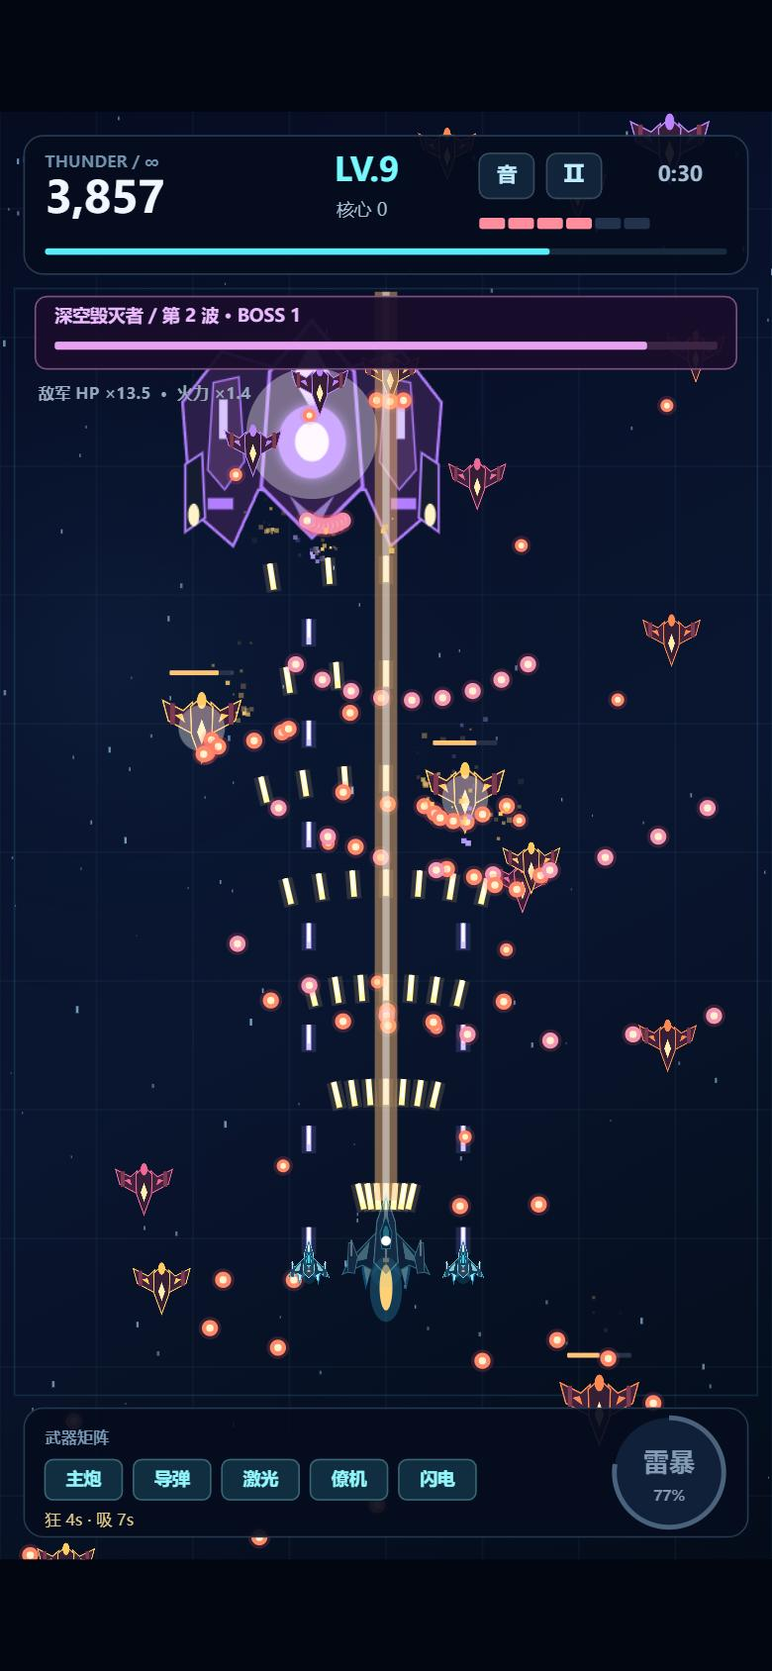
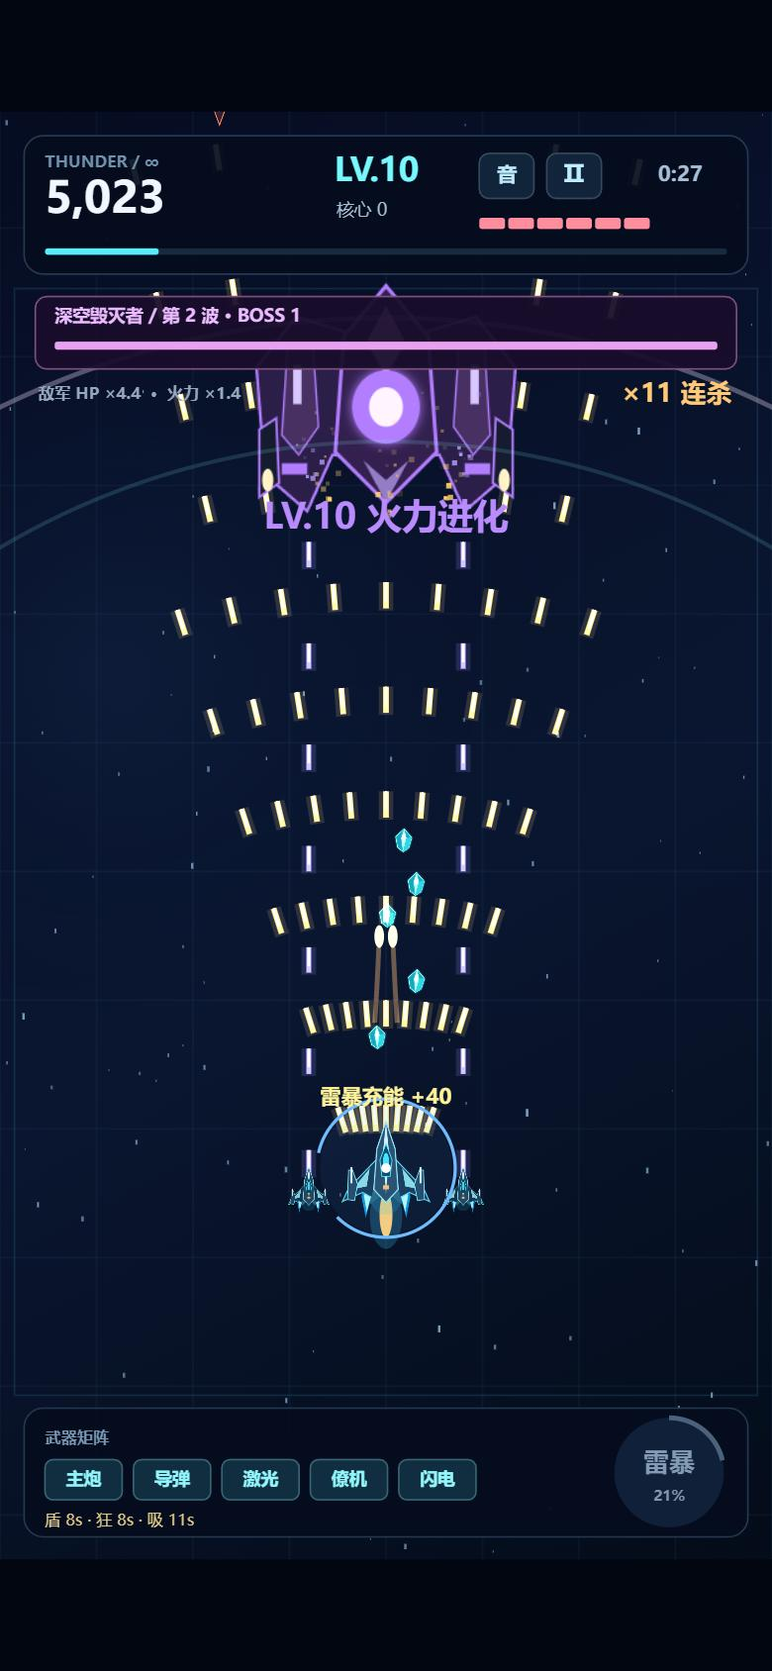
发布 2026/11/9 18:31:32

diff --git a/.studio/playtest/run-2026-11-09T10-23-20-335Z/game.html b/.studio/playtest/run-2026-11-09T10-23-20-335Z/game.html
@@ -4,12 +4,12 @@
 <meta http-equiv="Content-Security-Policy" content="default-src 'none'; img-src data: blob:; media-src data: blob:; font-src data:; style-src 'unsafe-inline'; script-src 'unsafe-inline'; connect-src 'none'; form-action 'none'">
 <title>雷霆战机：无限超载</title>
 <style>html,body{margin:0;height:100%;overflow:hidden;background:#000}canvas{display:block;width:100vw;height:100vh;touch-action:none;outline:none}</style></head><body><canvas id="game" tabindex="0"></canvas>
[2 lines of base64/hex data omitted]
 <script>/* 雷霆战机：无限超载 — Game Studio / standalone Canvas 2D. */
 (function () {
   'use strict';
   const G = window.GAME || {}, slots = G.slots || {}, assets = G.assets || {};
-  const defaults = { hearts:6, heroSpeed:420, bossEvery:30, bossHealth:1500, enemySpawnEvery:.62, enemyHealth:22, maxEnemies:48, maxPlayerBullets:360, maxEnemyBullets:480, maxParticles:600, maxPickups:90, startingLevel:1, skillCharge:100, enemyDamage:1, hitInvulnerability:1.6 };
+  const defaults = { hearts:6, heroSpeed:420, bossEvery:25, bossHealth:12000, enemySpawnEvery:.42, enemyHealth:60, maxEnemies:48, maxPlayerBullets:360, maxEnemyBullets:480, maxParticles:600, maxPickups:90, startingLevel:1, skillCharge:100, enemyDamage:1, hitInvulnerability:1.6, waveEvery:20, waveHealthGrowth:6, waveHealthCurve:3, waveHealthPower:1.35, waveBossHealthGrowth:.9, waveBossHealthCurve:.2, waveBossHealthPower:1.15, waveMoveGrowth:.2, waveBulletGrowth:.22, waveFireGrowth:.35, waveSpawnGrowth:.45, waveEliteGrowth:.045, waveDamageEvery:2 };
   const R = Object.assign({}, defaults, G.rules || {});
   Object.keys(defaults).forEach(k => { R[k] = Number.isFinite(+R[k]) ? +R[k] : defaults[k]; });
   const clamp = (x,a,b) => Math.max(a,Math.min(b,x)), rnd = (a,b) => a+Math.random()*(b-a), TAU=Math.PI*2;
@@ -18,6 +18,12 @@
   R.maxEnemies=clamp(R.maxEnemies,1,80); R.maxPlayerBullets=clamp(R.maxPlayerBullets,10,500);
   R.maxEnemyBullets=clamp(R.maxEnemyBullets,10,700); R.maxParticles=clamp(R.maxParticles,0,900);
   R.maxPickups=clamp(R.maxPickups,1,150); R.hearts=clamp(R.hearts,1,30);
+  R.waveEvery=Math.max(1,R.waveEvery);R.waveDamageEvery=Math.max(1,Math.floor(R.waveDamageEvery));
+  ['waveHealthGrowth','waveHealthCurve','waveBossHealthGrowth','waveBossHealthCurve','waveMoveGrowth','waveBulletGrowth','waveFireGrowth','waveSpawnGrowth','waveEliteGrowth'].forEach(k=>R[k]=clamp(R[k],0,10));
+  R.waveHealthPower=clamp(R.waveHealthPower,1,2);R.waveBossHealthPower=clamp(R.waveBossHealthPower,1,2);
+  // Fixed wave progression: not rubber-banded to player level. Snapshot on spawn.
+  // Bound only the exponent for finite arithmetic; polynomial HP keeps growing.
+  function waveStats(w){const n=Math.max(0,w-1),exponent=Math.min(n,200);return{health:(1+R.waveHealthGrowth*n+R.waveHealthCurve*n*n)*Math.pow(R.waveHealthPower,exponent),bossHealth:(1+R.waveBossHealthGrowth*n+R.waveBossHealthCurve*n*n)*Math.pow(R.waveBossHealthPower,exponent),move:Math.min(2.2,1+R.waveMoveGrowth*n),bullet:Math.min(2.25,1+R.waveBulletGrowth*n),fire:Math.min(2.5,1+R.waveFireGrowth*n),spawnEvery:Math.max(.14,R.enemySpawnEvery/(1+R.waveSpawnGrowth*n)),eliteChance:Math.min(.32,.08+R.waveEliteGrowth*n),damage:R.enemyDamage*Math.min(4,1+Math.floor(n/R.waveDamageEvery))};}
   let canvas=document.getElementById('game');
   if (!canvas) { canvas=document.createElement('canvas'); canvas.id='game'; document.body.appendChild(canvas); }
   Object.assign(canvas.style,{display:'block',touchAction:'none',outline:'none',background:'#030916'});
@@ -35,7 +41,7 @@
   function unlockAudio(){ try { if(!audio){const AC=window.AudioContext||window.webkitAudioContext;if(AC)audio=new AC();} if(audio&&audio.state==='suspended')audio.resume().catch(()=>{}); }catch(_){} }
   function sound(f,d=.09,type='sine',v=.04,end=f){if(!audio||muted)return;try{const t=audio.currentTime,o=audio.createOscillator(),g=audio.createGain();o.type=type;o.frequency.setValueAtTime(f,t);o.frequency.exponentialRampToValueAtTime(Math.max(30,end),t+d);g.gain.setValueAtTime(.0001,t);g.gain.exponentialRampToValueAtTime(v,t+.008);g.gain.exponentialRampToValueAtTime(.0001,t+d);o.connect(g);g.connect(audio.destination);o.start(t);o.stop(t+d+.015);}catch(_){} }
 
-  let phase='title',paused=false,elapsed=0,score=0,level=1,xp=0,xpNeed=12,hearts=6,maxHearts=6,charge=100;
+  let phase='title',paused=false,elapsed=0,score=0,level=1,xp=0,xpNeed=12,hearts=6,maxHearts=6,charge=100,wave=1,waveNotice=0;
   let hero={x:W/2,y:H*.78},enemies=[],shots=[],hostile=[],drops=[],particles=[],rings=[],labels=[],beams=[],arcs=[];
   let boss=null,bossCount=0,bossKills=0,nextBoss=30,spawnClock=0,shotClock=0,missileClock=0,laserClock=0,chainClock=0;
   let invuln=0,shield=0,rage=0,magnet=0,shake=0,flash=0,combo=0,comboTime=0,kills=0,earned=0,core=0,saveClock=0,guard=0;
@@ -101,10 +107,10 @@
   function emit(){try{window.parent.postMessage({source:'dsh-game-studio',type:'state',phase,score},'*');}catch(_){}}
   function burst(x,y,color,count=22,force=160){for(let i=0;i<count&&particles.length<R.maxParticles;i++){const a=rnd(0,TAU),v=rnd(force*.2,force);particles.push({x,y,vx:Math.cos(a)*v,vy:Math.sin(a)*v,life:rnd(.2,.65),max:.65,color,size:rnd(1,3.5)});}}
   function ring(x,y,color,max=90,life=.4){if(rings.length<35)rings.push({x,y,color,max,life,total:life});}
-  function label(text,x,y,color='#c6faff',big=false){if(labels.length<25)labels.push({text,x,y,color,life:big?1.6:.9,big});}
+  function label(text,x,y,color='#c6faff',big=false){if(big)labels=labels.filter(l=>!l.big);else{const nearby=labels.filter(l=>!l.big&&Math.abs(l.x-x)<70&&Math.abs(l.y-y)<60).length;y-=Math.min(nearby,3)*20;}if(labels.length<25)labels.push({text,x,y,color,life:big?1.6:.9,big});}
   function announce(t,color='#65faff'){banner=t;bannerTime=2.3;label(t,W/2,260,color,true);}
   function start(){
-    phase='playing';paused=false;elapsed=0;score=0;level=Math.max(1,Math.floor(R.startingLevel));xp=0;xpNeed=12+level*2;
+    phase='playing';paused=false;elapsed=0;wave=1;waveNotice=0;score=0;level=Math.max(1,Math.floor(R.startingLevel));xp=0;xpNeed=12+level*2;
     core=Math.floor(Math.sqrt(profile.bank/25));maxHearts=Math.min(12,R.hearts+Math.floor(core/3));hearts=maxHearts;charge=clamp(R.skillCharge,0,100);
     hero={x:W/2,y:H*.78};enemies=[];shots=[];hostile=[];drops=[];particles=[];rings=[];labels=[];beams=[];arcs=[];
     boss=null;bossCount=0;bossKills=0;nextBoss=R.bossEvery;spawnClock=.1;shotClock=0;missileClock=0;laserClock=0;chainClock=0;
@@ -132,23 +138,24 @@
     if(e.boss){bossKills++;boss=null;nextBoss=elapsed+R.bossEvery;shake=12;flash=.3;announce('BOSS 击破 · 奖励爆发','#ffd783');upgrade(40+bossCount*10);for(let i=0;i<12;i++)makeDrop(e.x+rnd(-100,100),e.y+rnd(-20,40),'xp',6);['heal','shield','rage','magnet','energy'].forEach((t,i)=>makeDrop(100+i*70,e.y+35,t));hostile.length=0;save();sound(100,.5,'sawtooth',.1,35);}
     else{upgrade(e.elite?3:1);makeDrop(e.x,e.y,'xp',e.elite?10:3);if(kills%9===0){const types=['rage','shield','energy','heal','magnet'];makeDrop(e.x+15,e.y,types[Math.floor(kills/9)%5]);}if(combo===10||combo%25===0)label(combo+' 连杀',W/2,190,'#ffd77a',true);if(elapsed-lastSound>.08){sound(160,.08,'triangle',.022,50);lastSound=elapsed;}}
   }
-  function hurt(){if(invuln>0||phase!=='playing')return;if(shield>0){shield=Math.max(0,shield-1.8);invuln=.3;ring(hero.x,hero.y,'#7dcfff',85,.35);return;}hearts=Math.max(0,hearts-R.enemyDamage);invuln=Math.max(.1,R.hitInvulnerability);shake=8;flash=.15;combo=0;burst(hero.x,hero.y,'#ff7e81',18);sound(190,.18,'sawtooth',.065,45);if(hearts<=0){phase='lost';guard=1;save();burst(hero.x,hero.y,'#62e7ff',80,260);emit();}}
+  function hurt(amount=R.enemyDamage){if(invuln>0||phase!=='playing'||amount<=0)return;if(shield>0){shield=Math.max(0,shield-1.8*amount);invuln=.3;ring(hero.x,hero.y,'#7dcfff',85,.35);return;}hearts=Math.max(0,hearts-amount);invuln=Math.max(.1,R.hitInvulnerability);shake=8;flash=.15;combo=0;burst(hero.x,hero.y,'#ff7e81',18);sound(190,.18,'sawtooth',.065,45);if(hearts<=0){phase='lost';guard=1;save();burst(hero.x,hero.y,'#62e7ff',80,260);emit();}}
   function hit(e,amount){if(e.dead||(e.boss&&e.y<185))return;e.hp-=amount;e.hit=.075;if(e.hp<=0)kill(e);}
   function thunder(){if(phase!=='playing'||paused||charge<100)return false;charge=0;skillUses++;invuln=Math.max(invuln,1);flash=.65;shake=14;hostile.length=0;ring(hero.x,hero.y,'#f9eaff',800,1);ring(hero.x,hero.y,'#89ffff',550,.8);for(const e of enemies.slice())if(!e.dead){arcs.push({x1:hero.x,y1:hero.y,x2:e.x,y2:e.y,life:.6,color:'#dbfaff'});hit(e,damage()*22);}announce('雷暴领域 · 全屏湮灭','#f5edff');sound(75,.55,'sawtooth',.12,35);return true;}
   function spawnEnemy(){
-    const tier=Math.floor(elapsed/20),type=Math.floor(rnd(0,4)),elite=kills>12&&Math.random()<.1;const x=rnd(35,W-35),speed=70+type*17+Math.min(140,tier*5);
-    const hp=R.enemyHealth*(1+tier*.23)*(elite?4:1)*(type===3?1.5:1);
-    enemies.push({x,y:-45,baseX:x,type,elite,hp,maxHp:hp,r:elite?24:17,size:elite?66:48,speed,age:0,fire:rnd(.8,2.5),hit:0,dead:false,boss:false});
+    const stats=waveStats(wave),type=Math.floor(rnd(0,4)),elite=kills>12&&Math.random()<stats.eliteChance,x=rnd(35,W-35);
+    const speed=(70+type*17)*stats.move,hp=R.enemyHealth*stats.health*(elite?4:1)*(type===3?1.5:1);
+    enemies.push({x,y:-45,baseX:x,type,elite,hp,maxHp:hp,r:elite?24:17,size:elite?66:48,speed,age:0,fire:rnd(.35,.8)/stats.fire,hit:0,dead:false,boss:false,spawnWave:wave,fireRate:stats.fire,bulletScale:stats.bullet,damage:stats.damage,eliteChance:stats.eliteChance});
   }
   const bossNames=['深空毁灭者','赤焰审判者','黄金歼星舰'];
-  function spawnBoss(){bossCount++;const hp=R.bossHealth*(1+(bossCount-1)*.75);boss={x:W/2,y:-120,hp,maxHp:hp,r:68,size:200,type:(bossCount-1)%3,age:0,fire:1.6,hit:0,dead:false,boss:true,speed:0};enemies.push(boss);announce('警报 / '+bossNames[boss.type],'#e4a2ff');sound(260,.4,'sawtooth',.055,110);}
-  function enemyBullet(x,y,a,s=130,r=5,color='#ff8a6a'){if(hostile.length<R.maxEnemyBullets)hostile.push({x,y,vx:Math.cos(a)*s,vy:Math.sin(a)*s,r,color,life:12});}
+  function spawnBoss(){bossCount++;const stats=waveStats(wave),hp=R.bossHealth*(1+(bossCount-1)*.25)*stats.bossHealth;boss={x:W/2,y:-120,hp,maxHp:hp,r:68,size:200,type:(bossCount-1)%3,age:0,fire:1.6,hit:0,dead:false,boss:true,speed:0,spawnWave:wave,fireRate:stats.fire,bulletScale:stats.bullet,damage:stats.damage};enemies.push(boss);announce('警报 / '+bossNames[boss.type],'#e4a2ff');sound(260,.4,'sawtooth',.055,110);}
+  function enemyBullet(x,y,a,s=130,r=5,color='#ff8a6a',source=null){if(hostile.length<R.maxEnemyBullets){const speed=s*(source?source.bulletScale:1);hostile.push({x,y,vx:Math.cos(a)*speed,vy:Math.sin(a)*speed,r,color,life:12,damage:source?source.damage:R.enemyDamage,spawnWave:source?source.spawnWave:wave});}}
   function bossFire(e){
-    const stage=1+(e.hp<e.maxHp*.65?1:0)+(e.hp<e.maxHp*.3?1:0),speed=105+bossCount*7+stage*12;
-    if(e.type===0){const n=7+stage*2;for(let i=0;i<n;i++)enemyBullet(e.x,e.y+38,Math.PI/2+(i-(n-1)/2)*.15,speed,5,'#f596b6');if(stage>1){for(const s of [-1,1]){const a=Math.atan2(hero.y-e.y,hero.x-(e.x+s*65));enemyBullet(e.x+s*65,e.y+25,a,speed+45,7,'#ffdc8a');}}}
-    if(e.type===1){const angle=e.age*.72;for(let i=0;i<12+stage*3;i++)enemyBullet(e.x,e.y+25,angle+i*TAU/(12+stage*3),speed*.9,5,'#ffa15b');}
-    if(e.type===2){for(const s of [-1,1]){const x=e.x+s*60,a=Math.atan2(hero.y-e.y,hero.x-x);for(let i=-stage;i<=stage;i++)enemyBullet(x,e.y+35,a+i*.12,speed+20,6,'#ffcf70');}for(let i=0;i<5;i++)enemyBullet(e.x,e.y+40,Math.PI/2+(i-2)*.34,speed*.7,4,'#de9bff');}
-    e.fire=Math.max(.32,1.1-stage*.12-bossCount*.016);
+    const stage=1+(e.hp<e.maxHp*.65?1:0)+(e.hp<e.maxHp*.3?1:0),speed=105+Math.min(40,bossCount*4)+stage*12;
+    if(e.type===0){const n=7+stage*2;for(let i=0;i<n;i++)enemyBullet(e.x,e.y+38,Math.PI/2+(i-(n-1)/2)*.15,speed,5,'#f596b6',e);if(stage>1){for(const s of [-1,1]){const a=Math.atan2(hero.y-e.y,hero.x-(e.x+s*65));enemyBullet(e.x+s*65,e.y+25,a,speed+45,7,'#ffdc8a',e);}}}
+    if(e.type===1){const angle=e.age*.72;for(let i=0;i<12+stage*3;i++)enemyBullet(e.x,e.y+25,angle+i*TAU/(12+stage*3),speed*.9,5,'#ffa15b',e);}
+    if(e.type===2){for(const s of [-1,1]){const x=e.x+s*60,a=Math.atan2(hero.y-e.y,hero.x-x);for(let i=-stage;i<=stage;i++)enemyBullet(x,e.y+35,a+i*.12,speed+20,6,'#ffcf70',e);}for(let i=0;i<5;i++)enemyBullet(e.x,e.y+40,Math.PI/2+(i-2)*.34,speed*.7,4,'#de9bff',e);}
+    if(e.spawnWave>=5){for(const side of [-1,1]){const x=e.x+side*65,a=Math.atan2(hero.y-e.y,hero.x-x);enemyBullet(x,e.y+35,a,speed+25,5,'#ff718b',e);}}
+    e.fire=Math.max(.25,(1.1-stage*.12-Math.min(.14,bossCount*.01))/e.fireRate);
   }
   function addShot(x,y,vx,vy,dmg,kind='normal',color='#72fbff'){if(shots.length<R.maxPlayerBullets)shots.push({x,y,vx,vy,dmg,kind,color,life:3,trail:[]});}
   function fire(){
@@ -166,7 +173,8 @@
   function update(dt){
     guard=Math.max(0,guard-dt);
     if(phase!=='playing'||paused){updateFX(dt);return;}
-    elapsed+=dt;saveClock+=dt;if(saveClock>5){save();saveClock=0;}bannerTime=Math.max(0,bannerTime-dt);
+    elapsed+=dt;saveClock+=dt;if(saveClock>5){save();saveClock=0;}bannerTime=Math.max(0,bannerTime-dt);waveNotice=Math.max(0,waveNotice-dt);
+    const nextWave=1+Math.floor((elapsed+1e-8)/R.waveEvery);if(nextWave>wave){wave=nextWave;waveNotice=3.5;sound(230,.18,'triangle',.045,460);}
     invuln=Math.max(0,invuln-dt);shield=Math.max(0,shield-dt);rage=Math.max(0,rage-dt);magnet=Math.max(0,magnet-dt);comboTime-=dt;if(comboTime<=0)combo=0;
     charge=Math.min(100,charge+dt*2.1);autoTTL-=dt;
     let dx=(keys.arrowright||keys.d?1:0)-(keys.arrowleft||keys.a?1:0),dy=(keys.arrowdown||keys.s?1:0)-(keys.arrowup||keys.w?1:0);
@@ -175,13 +183,13 @@
     else if(dx||dy){const len=Math.hypot(dx,dy);hero.x+=dx/len*R.heroSpeed*dt;hero.y+=dy/len*R.heroSpeed*dt;}
     hero.x=clamp(hero.x,25,W-25);hero.y=clamp(hero.y,125,H-105);
     shotClock-=dt;missileClock-=dt;laserClock-=dt;chainClock-=dt;if(shotClock<=0)fire();if(level>=3&&missileClock<=0)missile();if(level>=5&&laserClock<=0)laser();if(level>=9&&chainClock<=0)chain();
-    spawnClock-=dt;if(spawnClock<=0){spawnClock=Math.max(.18,R.enemySpawnEvery/(1+elapsed/100));if(enemies.filter(e=>!e.dead).length<R.maxEnemies)spawnEnemy();}
+    spawnClock-=dt;if(spawnClock<=0){spawnClock=waveStats(wave).spawnEvery;if(enemies.filter(e=>!e.dead).length<R.maxEnemies-(boss?0:1))spawnEnemy();}
     if(!boss&&elapsed>=nextBoss)spawnBoss();
     for(const e of enemies){if(e.dead)continue;e.age+=dt;e.hit=Math.max(0,e.hit-dt);e.fire-=dt;
       if(e.boss){e.y=Math.min(200,e.y+100*dt);if(e.y>=195){e.x=W/2+Math.sin(e.age*.65)*(e.type===2?90:115);if(e.fire<=0)bossFire(e);}}
       else{e.y+=e.speed*dt;if(e.type===1)e.x=clamp(e.baseX+Math.sin(e.age*2)*60,25,W-25);if(e.type===2)e.x+=clamp(hero.x-e.x,-70,70)*dt*.55;
-        if(e.fire<=0&&e.y>115&&e.y<hero.y-60){const a=Math.atan2(hero.y-e.y,hero.x-e.x);if(e.type===3||e.elite){for(let j=-1;j<=1;j++)enemyBullet(e.x,e.y+14,a+j*.17,115+Math.min(120,elapsed*.4));}else enemyBullet(e.x,e.y+12,a,105+Math.min(100,elapsed*.3),4);e.fire=e.elite?1.2:2.5;}}
-      if(Math.hypot(e.x-hero.x,e.y-hero.y)<e.r+10){hurt();if(!e.boss)hit(e,damage()*8);}
+        if(e.fire<=0&&e.y>115&&e.y<hero.y-60){const a=Math.atan2(hero.y-e.y,hero.x-e.x);if(e.type===3||e.elite){const spread=Math.min(3,1+Math.floor((e.spawnWave-1)/5));for(let j=-spread;j<=spread;j++)enemyBullet(e.x,e.y+14,a+j*.17,115,5,'#ff8a6a',e);}else enemyBullet(e.x,e.y+12,a,105,4,'#ff8a6a',e);e.fire=(e.elite?1.2:2.5)/e.fireRate;}}
+      if(Math.hypot(e.x-hero.x,e.y-hero.y)<e.r+10){hurt(e.damage);if(!e.boss)hit(e,damage()*8);}
       if(e.y>H+70)e.dead=true;
     }
     if(phase!=='playing'){updateFX(dt);return;}
@@ -191,7 +199,7 @@
       s.x+=s.vx*dt;s.y+=s.vy*dt;
       for(const e of live){if(e.dead||s.life<=0)continue;if(Math.abs(e.x-s.x)<e.r+5&&Math.abs(e.y-s.y)<e.r+8&&Math.hypot(e.x-s.x,e.y-s.y)<e.r+7){hit(e,s.dmg);s.life=0;burst(s.x,s.y,s.color,3,65);if(s.kind==='missile'){ring(s.x,s.y,'#ffc477',45,.22);for(const n of live)if(n!==e&&!n.dead&&Math.hypot(n.x-s.x,n.y-s.y)<70)hit(n,s.dmg*.5);}break;}}
     }
-    for(const b of hostile){b.x+=b.vx*dt;b.y+=b.vy*dt;b.life-=dt;if(Math.hypot(b.x-hero.x,b.y-hero.y)<b.r+7){b.life=0;hurt();}}
+    for(const b of hostile){b.x+=b.vx*dt;b.y+=b.vy*dt;b.life-=dt;if(Math.hypot(b.x-hero.x,b.y-hero.y)<b.r+7){b.life=0;hurt(b.damage);}}
     if(phase!=='playing'){updateFX(dt);return;}
     for(const p of drops){p.age+=dt;p.y+=35*dt;const dist=Math.hypot(p.x-hero.x,p.y-hero.y),attract=p.type==='xp'?180:125;if(magnet>0||dist<attract||p.age>8){const speed=magnet>0?680:410;const step=Math.min(dist,speed*dt);if(dist>.01){p.x+=(hero.x-p.x)/dist*step;p.y+=(hero.y-p.y)/dist*step;}}if(dist<22){p.dead=true;if(p.type==='xp'){upgrade(p.value);score+=p.value*2;}else applyDrop(p.type);}}
     enemies=enemies.filter(e=>!e.dead);shots=shots.filter(s=>s.life>0&&s.x>-70&&s.x<W+70&&s.y>-100&&s.y<H+100);
@@ -245,9 +253,11 @@
     box(340,26,34,28,'#12243a','#344a5c',6);text('Ⅱ',357,40,15,'#bfedff','center',700);text(time(elapsed),423,40,13,'#a7bfd6','center',600);
     for(let i=0;i<maxHearts;i++){const w=Math.min(16,160/maxHearts);box(298+i*(w+2),66,w,7,i<hearts?'#fe8e9e':'#24334d',null,2);}
     box(28,85,424,4,'#182940',null,2);box(28,85,424*clamp(xp/xpNeed,0,1),4,'#56edf9',null,2);
-    if(boss){box(22,115,W-44,45,'rgba(24,13,42,.94)','#7e517e',7);text(bossNames[boss.type]+' / BOSS '+bossCount,34,128,11,'#ebbaff','left',800);box(34,143,412,5,'#3c2444',null,2);box(34,143,412*clamp(boss.hp/boss.maxHp,0,1),5,'#e8a0f0',null,2);}
-    else{text('航域 '+(Math.floor(elapsed/30)+1)+'  /  BOSS 接近 '+Math.max(0,Math.ceil(nextBoss-elapsed))+'s',24,126,11,'#6989a5','left',600);}
+    if(boss){box(22,115,W-44,45,'rgba(24,13,42,.94)','#7e517e',7);text(bossNames[boss.type]+' / 第 '+wave+' 波 · BOSS '+bossCount,34,128,11,'#ebbaff','left',800);box(34,143,412,5,'#3c2444',null,2);box(34,143,412*clamp(boss.hp/boss.maxHp,0,1),5,'#e8a0f0',null,2);}
+    else{text('第 '+wave+' 波  /  BOSS 接近 '+Math.max(0,Math.ceil(nextBoss-elapsed))+'s',24,126,11,'#a7b6c6','left',600);}
+    const pressure=waveStats(wave);text('敌军 HP ×'+pressure.health.toFixed(1)+'  ·  火力 ×'+pressure.fire.toFixed(1),24,boss?176:151,10,wave>=5?'#f9b191':'#95a8bc','left',600);
     if(combo>=3)text('×'+combo+' 连杀',W-25,boss?176:151,16,'#ffc975','right',800);
+    if(waveNotice>0){c.save();c.globalAlpha=Math.min(1,waveNotice);box(64,199,W-128,52,'rgba(47,23,32,.92)','#b57457',8);text('第 '+wave+' 波 · 敌军强化',W/2,217,18,'#ffd3a1','center',900);text('装甲 / 移速 / 弹速 / 火力 上升',W/2,239,10,'#d4b2a8','center',600);c.restore();}
     box(15,H-94,W-30,80,'rgba(4,12,29,.92)','#243951',12);
     text('武器矩阵',28,H-75,10,'#7898b5','left',700);
     const names=['主炮','导弹','激光','僚机','闪电'],levels=[1,3,5,7,9];
@@ -268,7 +278,7 @@
     text('最高纪录 '+compact(profile.best)+'     永久核心 '+Math.floor(Math.sqrt(profile.bank/25)),W/2,y+535,12,'#e7cf97','center',600);
     text('击杀攒晶石，每次出击都更强',W/2,y+558,11,'#708ca5','center');
   }
-  function deathMenu(){c.fillStyle='rgba(3,8,21,.88)';c.fillRect(0,0,W,H);text('MISSION REPORT',W/2,210,12,'#809db5','center',700);text('战机陨落 · 火种不灭',W/2,253,27,'#eaf3ff','center',900);text('本次积分',W/2,321,12,'#8ca7bc','center');text(compact(score),W/2,359,47,'#9cfbff','center',900);box(50,410,W-100,132,'#101e33','#304158',12);text('等级  '+level+'     击杀  '+kills,W/2,441,17,'#d8eaff','center',700);text('BOSS 击破  '+bossKills+'     生存  '+time(elapsed),W/2,477,15,'#abbfd3','center');text('晶石 +'+earned+'  →  永久核心 '+Math.floor(Math.sqrt(profile.bank/25)),W/2,512,14,'#edce92','center',700);box(65,579,W-130,58,'#17384b','#75e2ec',10);text('再度出击  →',W/2,608,21,'#e9ffff','center',900);text('下一局享受永久核心的火力加成',W/2,666,12,'#8aa5bb','center');text('最高纪录 '+compact(profile.best),W/2,696,12,'#d7c38d','center');}
+  function deathMenu(){c.fillStyle='rgba(3,8,21,.88)';c.fillRect(0,0,W,H);text('MISSION REPORT',W/2,210,12,'#809db5','center',700);text('战机陨落 · 火种不灭',W/2,253,27,'#eaf3ff','center',900);text('本次积分',W/2,321,12,'#8ca7bc','center');text(compact(score),W/2,359,47,'#9cfbff','center',900);box(50,410,W-100,132,'#101e33','#304158',12);text('第 '+wave+' 波 · LV.'+level+' · 击杀 '+kills,W/2,441,17,'#d8eaff','center',700);text('BOSS 击破  '+bossKills+'     生存  '+time(elapsed),W/2,477,15,'#abbfd3','center');text('晶石 +'+earned+'  →  永久核心 '+Math.floor(Math.sqrt(profile.bank/25)),W/2,512,14,'#edce92','center',700);box(65,579,W-130,58,'#17384b','#75e2ec',10);text('再度出击  →',W/2,608,21,'#e9ffff','center',900);text('下一局享受永久核心的火力加成',W/2,666,12,'#8aa5bb','center');text('最高纪录 '+compact(profile.best),W/2,696,12,'#d7c38d','center');}
   function render(){c.setTransform(dpr,0,0,dpr,0,0);c.fillStyle='#020610';c.fillRect(0,0,cw,ch);c.translate(ox,oy);c.scale(scale,scale);c.save();c.beginPath();c.rect(0,0,W,H);c.clip();background();if(phase==='title')menu();else{renderWorld();hud();if(phase==='lost')deathMenu();else if(paused){c.fillStyle='rgba(3,8,22,.8)';c.fillRect(0,0,W,H);text('作战暂停',W/2,H/2-20,32,'#eaffff','center',900);text('点击继续 / P 恢复',W/2,H/2+25,16,'#99bdcf','center');}}c.restore();}
   function point(e){const r=canvas.getBoundingClientRect();return{x:(e.clientX-r.left-ox)/scale,y:(e.clientY-r.top-oy)/scale};}
   function toggleMute(){muted=!muted;save();}
@@ -292,6 +302,8 @@
   // Test pilot uses the same movement target and real skill, never grants health or damage.
   window.__autoplay=function(){if(phase!=='playing'||paused)return;
     if(charge>=100&&(hostile.length>14||enemies.length>7||(boss&&boss.y>=190)))thunder();
+    // Game Studio can isolate stationary play for a test run; no player-facing switch.
+    if(R.testPilot==='stationary'){autoTarget=null;autoTTL=0;return;}
     let best=null,bestCost=Infinity;
     for(let ix=0;ix<7;ix++){for(let iy=0;iy<3;iy++){
       const x=45+ix*65,y=610+iy*65;let cost=Math.hypot(x-hero.x,y-hero.y)*.18;
@@ -302,7 +314,7 @@
       if(cost<bestCost){bestCost=cost;best={x,y};}
     }}autoTarget=best;autoTTL=.25;
   };
-  window.__gameState=function(){return{phase,score:Math.floor(score),hearts,fps:Math.round(fps),hero:{x:hero.x,y:hero.y},heroOnScreen:hero.x>=0&&hero.x<=W&&hero.y>=0&&hero.y<=H,pickups:drops.map(p=>({x:p.x,y:p.y})),enemies:enemies.map(e=>({x:e.x,y:e.y})),world:{w:W,h:H},level,xp,xpNeed,elapsed,paused,shield,rage,magnet,charge,kills,bossCount,bossKills,skillUses,core,earned,storageOK,boss:boss?{hp:boss.hp,maxHp:boss.maxHp,type:boss.type}:null,counts:{enemies:enemies.length,playerBullets:shots.length,enemyBullets:hostile.length,particles:particles.length},peaks:Object.assign({},peaks),damage:damage()};};
+  window.__gameState=function(){return{phase,score:Math.floor(score),hearts,fps:Math.round(fps),hero:{x:hero.x,y:hero.y},heroOnScreen:hero.x>=0&&hero.x<=W&&hero.y>=0&&hero.y<=H,pickups:drops.map(p=>({x:p.x,y:p.y})),enemies:enemies.map(e=>({x:e.x,y:e.y,hp:e.hp,maxHp:e.maxHp,type:e.type,elite:e.elite,boss:e.boss,speed:e.speed,fire:e.fire,fireRate:e.fireRate,bulletScale:e.bulletScale,damage:e.damage,spawnWave:e.spawnWave})),hostile:hostile.map(b=>({x:b.x,y:b.y,vx:b.vx,vy:b.vy,damage:b.damage,spawnWave:b.spawnWave})),world:{w:W,h:H},wave,waveEvery:R.waveEvery,pressure:waveStats(wave),level,xp,xpNeed,elapsed,paused,shield,rage,magnet,charge,kills,bossCount,bossKills,skillUses,core,earned,storageOK,boss:boss?{hp:boss.hp,maxHp:boss.maxHp,type:boss.type,spawnWave:boss.spawnWave,fireRate:boss.fireRate,bulletScale:boss.bulletScale,damage:boss.damage}:null,counts:{enemies:enemies.length,playerBullets:shots.length,enemyBullets:hostile.length,particles:particles.length},peaks:Object.assign({},peaks),damage:damage()};};
   function reportError(msg){try{window.parent.postMessage({source:'dsh-game-studio',type:'error',message:String(msg).slice(0,300)},'*');}catch(_){}}
   window.addEventListener('error',e=>reportError(e.message));window.addEventListener('unhandledrejection',e=>reportError(e.reason&&e.reason.message||e.reason));
   function frame(now){requestAnimationFrame(frame);const raw=last?(now-last)/1000:1/60;last=now;const dt=clamp(raw,0,.04);frameCount++;fpsTime+=raw;if(fpsTime>=.5){fps=frameCount/fpsTime;frameCount=0;fpsTime=0;}clock+=dt;update(dt);render();}

diff --git a/dist/index.html b/dist/index.html
@@ -4,7 +4,7 @@
 <meta http-equiv="Content-Security-Policy" content="default-src 'none'; img-src data: blob:; media-src data: blob:; font-src data:; style-src 'unsafe-inline'; script-src 'unsafe-inline'; connect-src 'none'; form-action 'none'">
 <title>雷霆战机：无限超载</title>
 <style>html,body{margin:0;height:100%;overflow:hidden;background:#000}canvas{display:block;width:100vw;height:100vh;touch-action:none;outline:none}</style></head><body><canvas id="game" tabindex="0"></canvas>
[2 lines of base64/hex data omitted]
 <script>/* 雷霆战机：无限超载 — Game Studio / standalone Canvas 2D. */
 (function () {
   'use strict';

diff --git a/export/雷霆战机-无限超载.html b/export/雷霆战机-无限超载.html
@@ -4,7 +4,7 @@
 <meta http-equiv="Content-Security-Policy" content="default-src 'none'; img-src data: blob:; media-src data: blob:; font-src data:; style-src 'unsafe-inline'; script-src 'unsafe-inline'; connect-src 'none'; form-action 'none'">
 <title>雷霆战机：无限超载</title>
 <style>html,body{margin:0;height:100%;overflow:hidden;background:#000}canvas{display:block;width:100vw;height:100vh;touch-action:none;outline:none}</style></head><body><canvas id="game" tabindex="0"></canvas>
[2 lines of base64/hex data omitted]
 <script>/* 雷霆战机：无限超载 — Game Studio / standalone Canvas 2D. */
 (function () {
   'use strict';
